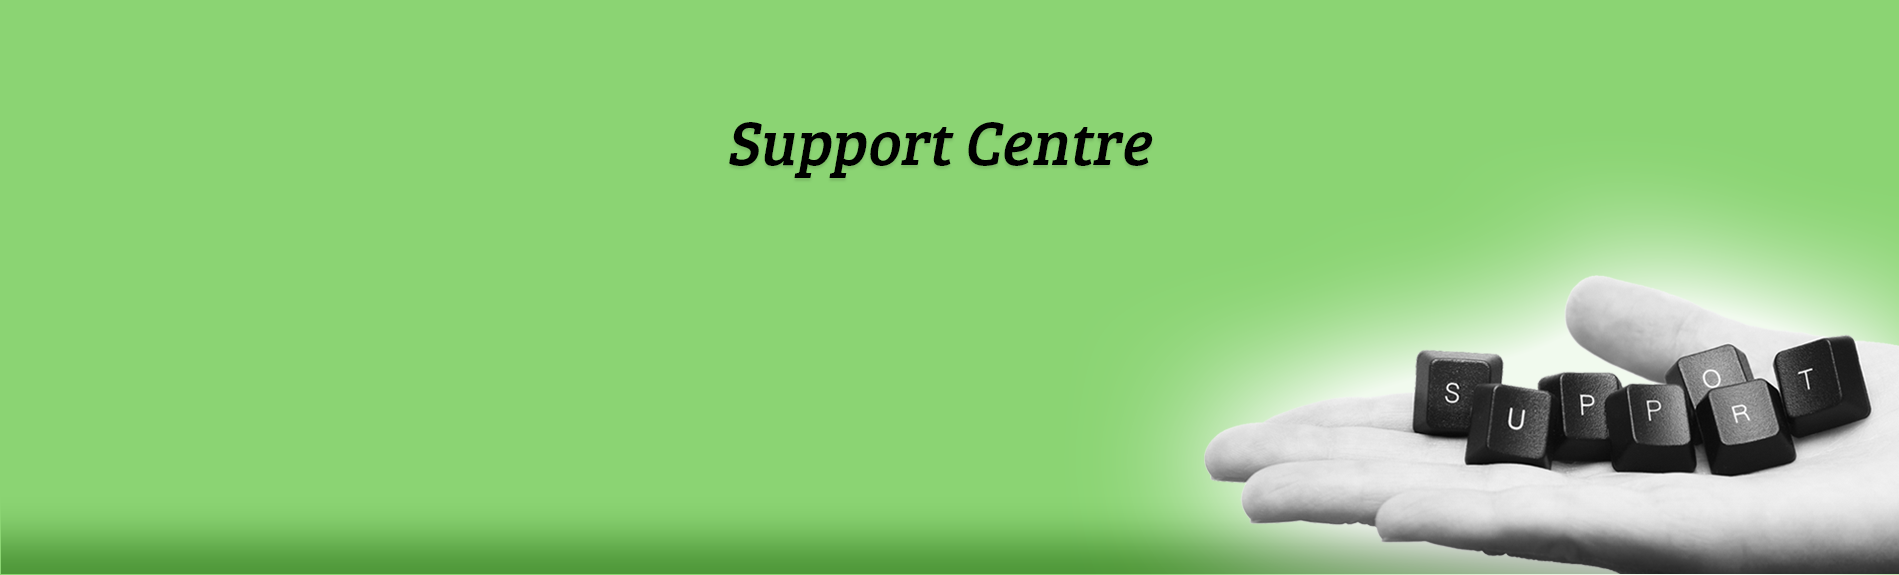
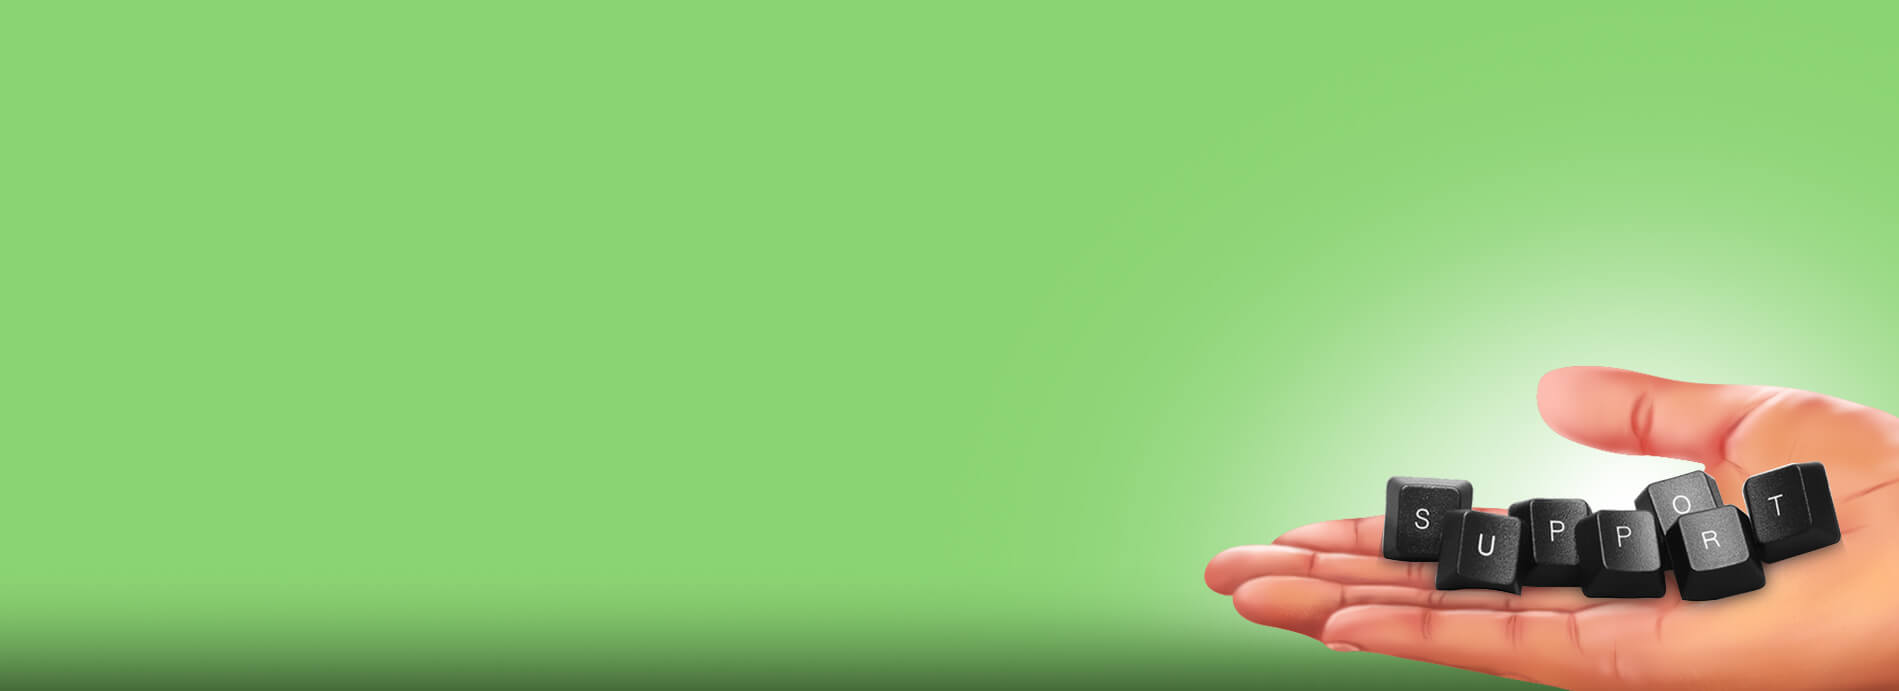
support page image chnage

Changed region(s): [[0.0, 0.473, 1.0, 1.0], [0.3728, 0.207, 0.6214, 0.3252], [0.7146, 0.3548, 0.8078, 0.5026]]

diff --git a/wp-website/wp-content/themes/classtune/css/default.css b/wp-website/wp-content/themes/classtune/css/default.css
@@ -1039,7 +1039,7 @@ i.faq:hover
 
 
 /***************SUPPORT PAGE***********************/
-#supportWrap { width: 100%; height: 410px; text-align: center; background: transparent url(../images/cover/support_page.png) no-repeat top left;background-size:cover;}
+#supportWrap { width: 100%; height: 410px; text-align: center; background: transparent url(../images/cover/support_page.png) no-repeat bottom left;background-size:cover;}
 
 #custom-search-input{
     padding: 3px;
